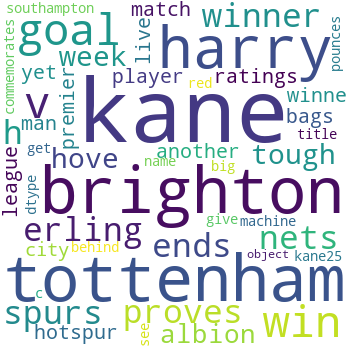
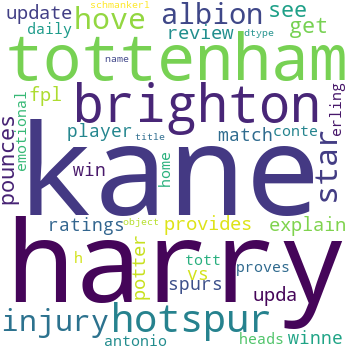
'two_plots'

diff --git a/templates/results.html b/templates/results.html
@@ -32,13 +32,8 @@
                 </tr>
             {% endfor %}
         </table>
-        <div class="imgContainer">
-            <img class = "img-center" src="{{wordcloud_files[i//10]}}" border=3/>
-        </div>
-        <div class="imgContainer">
-            <img class = "img-center" src="{{plot_files[i//10]}}" border=3/>
-        </div>
-        
+        <img class = "img-center" src="{{wordcloud_files[i//10]}}" border=3/>
+        <img class = "img-center" src="{{plot_files[i//10]}}" border=3/>
     {% endfor %}
     <h2>NOTE: This page will refresh every minute.</h2>
 </body>

diff --git a/word_freq_plot.py b/word_freq_plot.py
@@ -6,9 +6,9 @@ import pandas as pd
 def plot_generator(name,titles):
     frequency_df = frequency_generator(titles)
     frequency_df = frequency_df.sort_values(by=['Frequency'],ascending=False)
-    frequency_df.plot(x='Words',y='Frequency',kind ='bar',figsize=(4,4))
+    frequency_df.iloc[0:20].plot(x='Words',y='Frequency',kind ='bar',figsize=(3,3))
     plt.xticks(rotation=90,)
-    plt.xlabel('xlabel', fontsize=18)
+    plt.xlabel('xlabel', fontsize=12)
     plots_filename = f'static/images/{name}_plot.png'.replace(' ','_')
     plt.savefig(plots_filename)
     return(plots_filename)

diff --git a/app.py b/app.py
@@ -18,6 +18,7 @@ def homepage():
     for result in results:
         for i in range(len(result['titles'])):
             inner_dic['Name'] = result['Name']
+            print(result['Name'])
             inner_dic['Title'] = result['titles'][i]
             inner_dic['Source'] = result['sources'][i]
             inner_dic['Pub_time'] = result['pub_times'][i]

diff --git a/word_frequency.py b/word_frequency.py
@@ -24,4 +24,4 @@ def frequency_generator(titles):
         frequency_df.loc[ctr].Words = word
         frequency_df.loc[ctr].Frequency = words_list.count(word)
         ctr+=1
-    return(frequency_df.dropna(inplace=True))
+    return(frequency_df)

diff --git a/result_collector.py b/result_collector.py
@@ -7,4 +7,5 @@ def final_results():
 
     for name in names:
         results.append(scrapper(name))
+    print(len(results))
     return(results)
